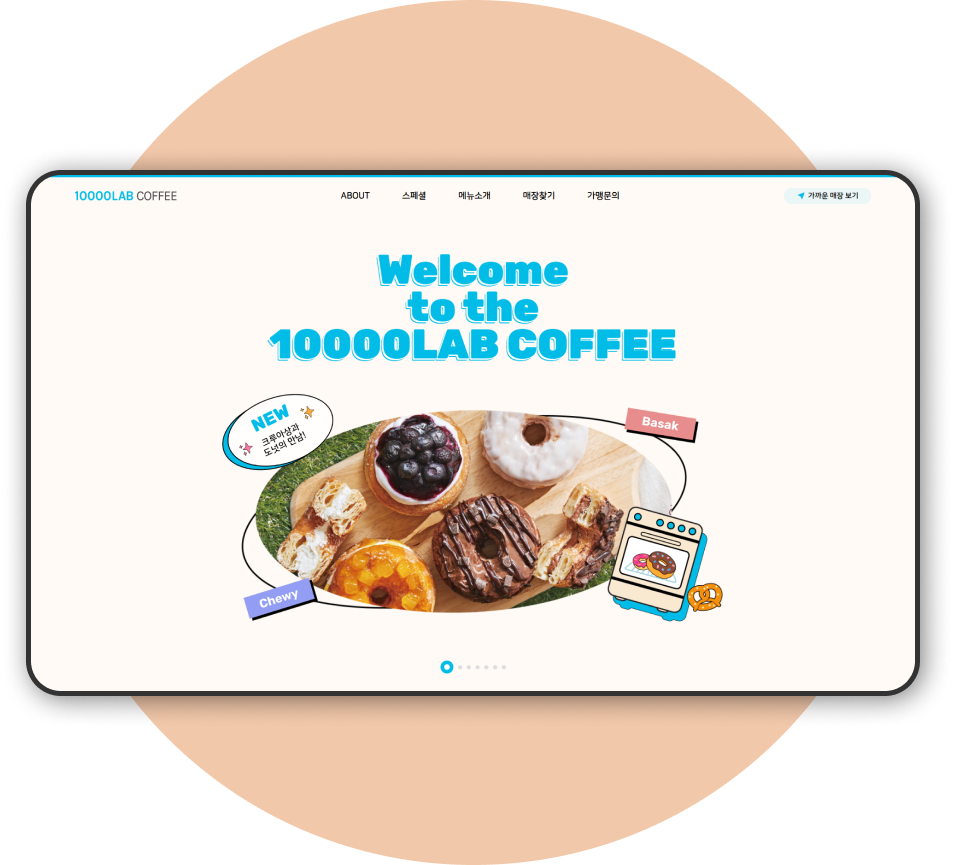
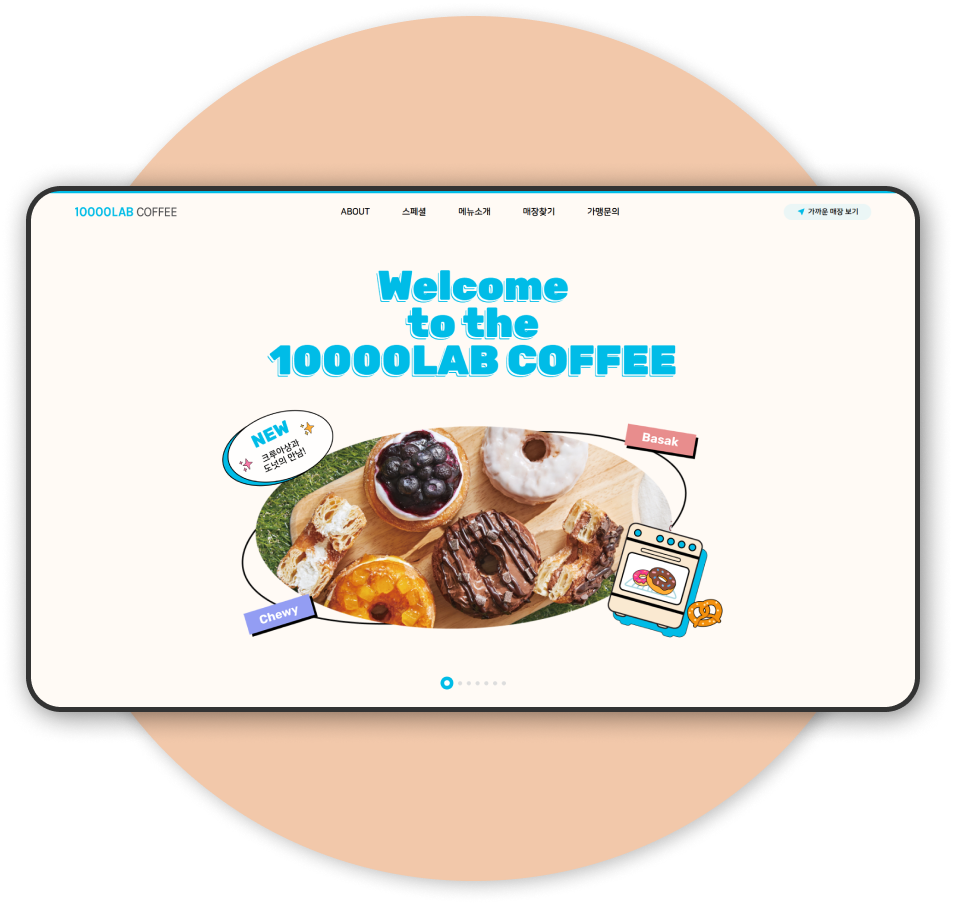
230712 수정

diff --git a/index.html b/index.html
@@ -121,12 +121,14 @@
             - 웹 표준 & 웹 접근성을 고려한 시맨틱 태그 사용<br>
             - 미디어커리 이용 반응형 웹<br>
             - flex, grid, position 이용 레이아웃 구현<br>
-            - CSS3 애니메이션 적용 가능
+            - CSS3 애니메이션, 변수 설정 가능
           </span>
         </li>
         <li><strong>JavaScript & jQuery</strong>
           <span>
-            - ES6+ 문법 사용<br>
+            - ES6+ 문법 사용 및 기본 문법 이해<br>
+            - 이벤트 메소드 구현<br>
+            - 다양한 jQuery 라이브러리 사용<br>
             - 비동기 통신 Ajax를 이용한 JSON 데이터 활용
           </span>
         </li>
@@ -136,7 +138,8 @@
           <span>
             - 이미지 편집 및 디자인 가능<br>
             - 사용자 고려 UIUX 디자인<br>
-            - 피그마 활용 프로토타입 제작
+            - 피그마 활용 와이어프레임, 프로토타입 제작<br>
+            - 포토샵 활용 GIF 파일 제작
           </span>
         </li>
         <li><strong>Git & Github</strong>
@@ -213,18 +216,18 @@
           <div class="projecttxt">
             <div class="topbtn">
               <p>Web Design</p>
-              <p>ResponsibleWeb</p>
+              <p>Team Project</p>
             </div>
             <h1>
               03.<br>
               Web Design<br>
-              <span>세번째</span>
+              <span>베이힐풀앤빌라</span>
             </h1>
             <div class="prhashtag">
               <p># 리디자인</p>
-              <p># 개인작업</p>
+              <p># 팀 작업</p>
               <p># 퍼블리싱</p>
-              <p># 반응형</p>
+              <p># JavaScript</p>
             </div>
             <div class="morebtn">
               <p><a href="#">View more</a></p>
@@ -233,7 +236,7 @@
               </svg>
             </div>
           </div>
-          <a href="#"><img src="./images/project1.png" alt="만랩커피 이미지"></a>
+          <a href="#"><img src="./images/project3.png" alt="베이힐 이미지"></a>
         </div>
         <div class="swiper-slide">
           <div class="projecttxt">
@@ -244,13 +247,13 @@
             <h1>
               04.<br>
               Web Design<br>
-              <span>네번째</span>
+              <span>포트폴리오 작업일지</span>
             </h1>
             <div class="prhashtag">
-              <p># 리디자인</p>
               <p># 개인작업</p>
               <p># 퍼블리싱</p>
-              <p># 반응형</p>
+              <p># JavaScript</p>
+              <p># jQuery</p>
             </div>
             <div class="morebtn">
               <p><a href="#">View more</a></p>
@@ -259,7 +262,7 @@
               </svg>
             </div>
           </div>
-          <a href="#"><img src="./images/project2.png" alt="만랩커피 이미지"></a>
+          <a href="#"><img src="./images/project4.png" alt="포트폴리오 이미지"></a>
         </div>
       </div>
       <div class="swiper-button-next"></div>
@@ -290,7 +293,6 @@
 
   <!---- 마우스 따라다니는 이벤트---->
   <div class="cursor">
-    <!--<p>🍒</p>-->
     <img src="./images/smile3.png" alt="주황색의 스마일 모양 이미지">
   </div>
 

diff --git a/index.css b/index.css
@@ -236,7 +236,7 @@ header .hi {
 }
 
 .abouttxt > p {
-  line-height: 1.4;
+  line-height: 1.43;
 }
 
 .star2 {
@@ -344,7 +344,7 @@ header .hi {
 
 .skillwrapper {
   width: 80%;
-  margin: 80px auto 0;
+  margin: 5.729vw auto 0;
   padding-bottom: 200px;
 }
 
@@ -450,7 +450,7 @@ header .hi {
 
 .swiper {
   width: 100%;
-  height: 90vh;
+  height: 87vh;
 }
 
 .swiper-slide {
@@ -465,7 +465,7 @@ header .hi {
   width: 40%;
 }
 .swiper-slide > a {
-  width: 38%;
+  width: 35%;
   display: block;
 }
 
@@ -548,8 +548,8 @@ header .hi {
   font-family: var(--en-font);
   background-color: #fff;
   margin-top: 5.208vw;
-  width: 13vw;
-  height: 3.4vw;
+  width: 12.4vw;
+  height: 3vw;
   border-radius: 30px;
   font-size: 1.3vw;
   cursor: pointer;
